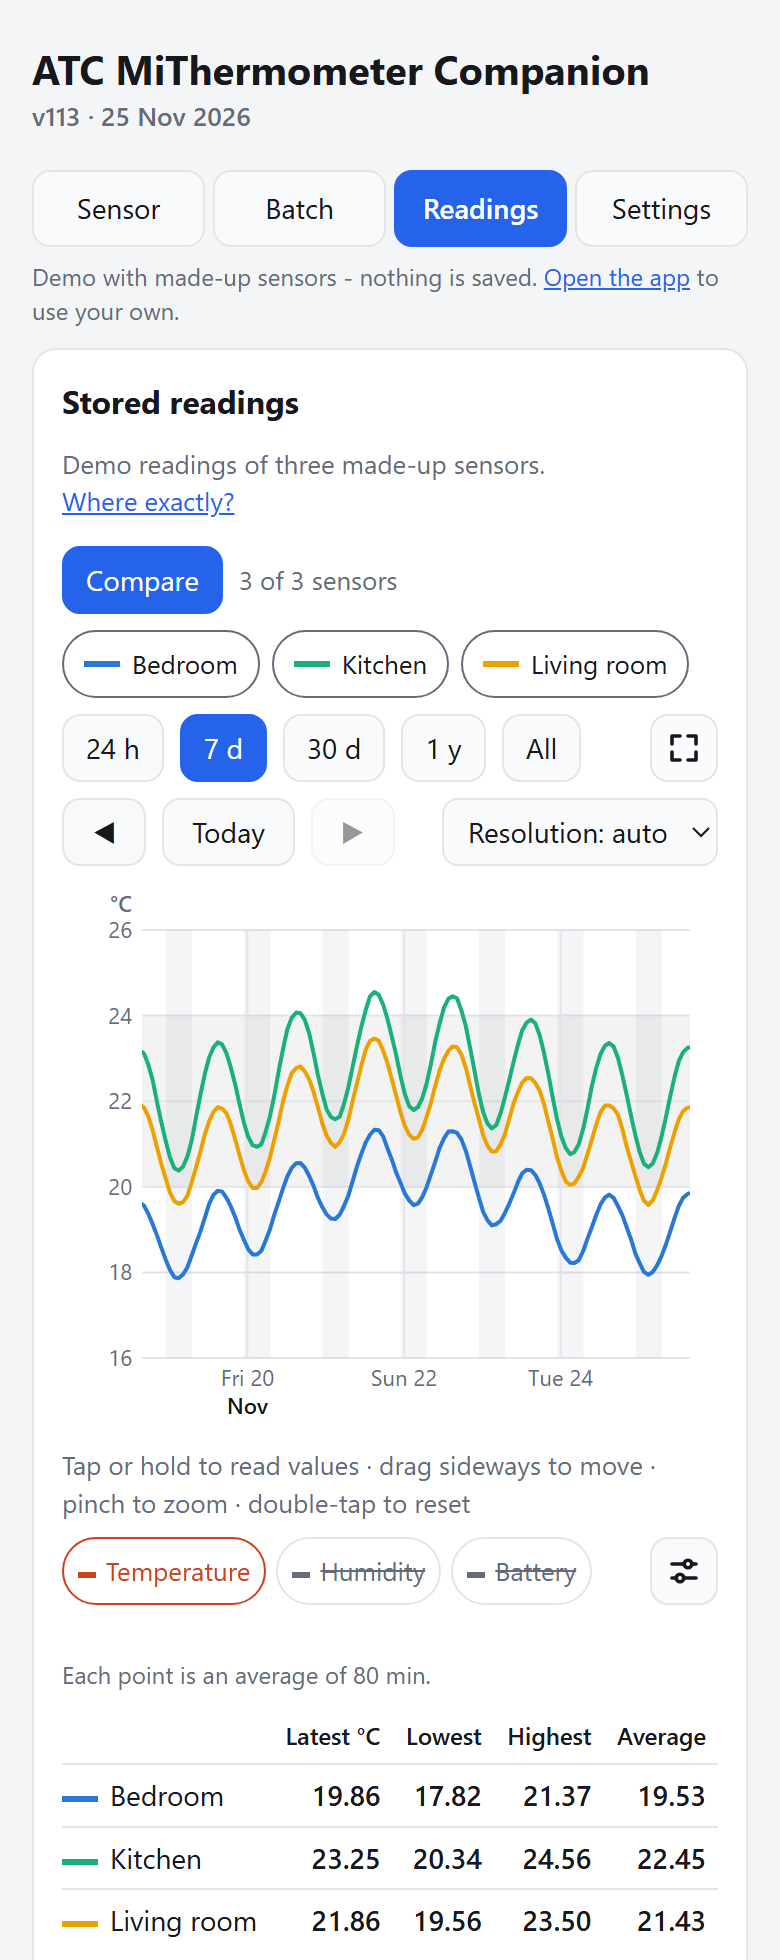
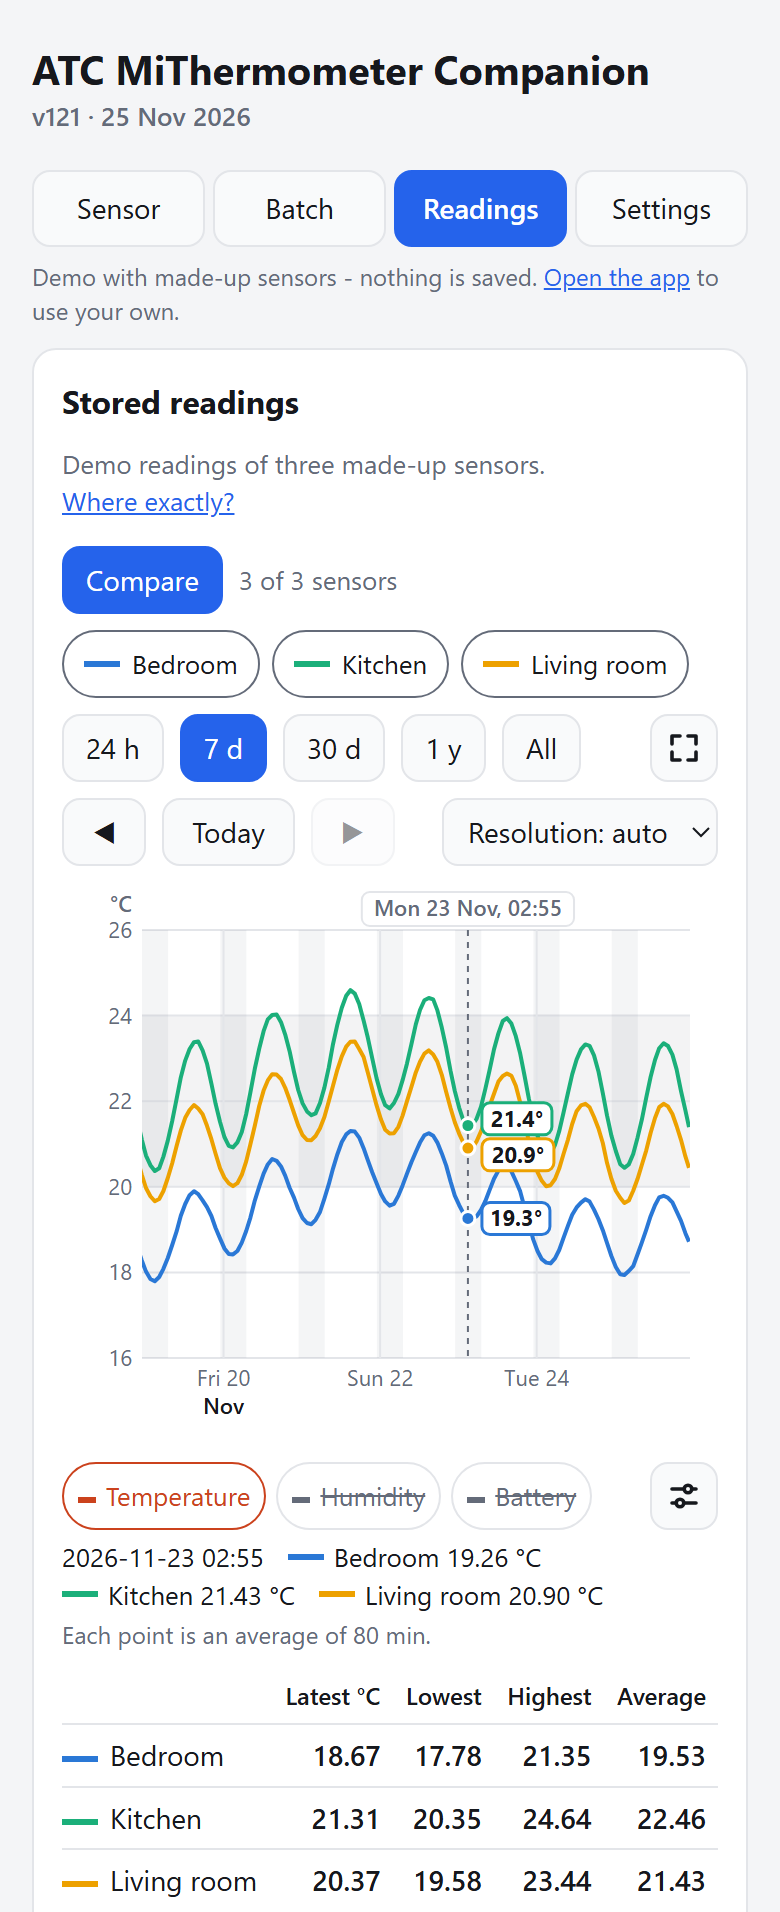
Full-screen chart fixes, new screenshots, tests on every push (v121)
Sideways full screen: the values no longer cover the time and the lines, the
buttons line up, low charts use the height better. Upright full screen: the
chart no longer shrinks when values appear. A GitHub workflow runs the tests.

diff --git a/index.html b/index.html
@@ -132,7 +132,7 @@ button.chip[aria-pressed="true"] { color: var(--text); border-color: var(--muted
 .ln.dash { border-top-style: dashed; }
 body:not(.comparing) #cmpChips, body.comparing .selwrap, body.comparing #styleSw, body.comparing #btnForget { display: none !important; }
 #btnCompare[aria-pressed="true"] { background: var(--accent); color: var(--accent-text); border-color: var(--accent); }
-#readout .rv { display: inline-flex; align-items: center; gap: 5px; margin-right: 12px; white-space: nowrap; color: var(--text); }
+#readout .rv { display: inline-flex; align-items: center; gap: 5px; margin-right: 12px; vertical-align: top; white-space: nowrap; color: var(--text); }
 .stats td .ln { margin-right: 6px; }
 .stats.cmp td:first-child { overflow-wrap: anywhere; color: var(--text); }
 /* Full-screen chart (the button, or turning the phone sideways) */
@@ -142,15 +142,20 @@ body.chartfull #histCard { position: fixed; inset: 0; z-index: 50; margin: 0; bo
 body.chartfull #histCard > :is(h2, .hist-extra, #avgNote, #battNote, #battHelp, #stats, #zoomRow, #noData), body.chartfull #histCount { display: none !important; }
 body.chartfull #chartWrap { flex: 1 1 0; min-height: 120px; touch-action: none; }
 body.chartfull #chart { position: absolute; inset: 0; height: 100%; }
+body.chartfull #readout { flex: none; height: 36px; font-size: 12px; line-height: 18px; overflow: hidden; }  /* fixed: the chart must not shrink when values appear */
+body.chartfull.comparing #readout { display: none; }
 @media (orientation: landscape) and (max-height: 500px) {
   body.chartfull #histCard { display: grid; grid-template-columns: auto auto 1fr; grid-template-rows: auto minmax(0, 1fr) auto; gap: 4px 10px; align-items: center; }
   body.chartfull #histCard > .row { margin: 0; flex-wrap: nowrap; }
-  body.chartfull #selRow { grid-area: 1 / 1; min-width: 0; } body.chartfull #selRow .selwrap { max-width: 150px; }
+  body.chartfull #selRow { grid-area: 1 / 1; min-width: 0; } body.chartfull #selRow .selwrap { max-width: 150px; } body.chartfull .selshow { padding: 5px 12px; }
   body.chartfull #stepBtns { grid-area: 1 / 2; } body.chartfull #rangeBtns { grid-area: 1 / 3; }
   body.chartfull #resSel, body.chartfull #btnCompare, body.chartfull #histCard > .legend { display: none !important; }
   body.chartfull #chartWrap { grid-area: 2 / 1 / 3 / -1; align-self: stretch; min-height: 0; margin: 0; }
   body.chartfull #cmpChips { grid-area: 3 / 1 / 4 / -1; flex-wrap: nowrap; overflow: auto hidden; margin: 0; } body.chartfull .chip { flex: none; } body.chartfull .chip::after { inset: 0; }
-  body.chartfull #readout { grid-area: 2 / 1 / 3 / -1; place-self: start center; z-index: 1; min-height: 0; margin: 0 44px; padding: 0 6px; font-size: 12px; background: var(--card); pointer-events: none; }
+  /* Values under the chart, in a line of their own (comparing: the tags on the chart show them all). */
+  body.chartfull #readout { grid-area: 3 / 1 / 4 / -1; justify-self: center; max-width: 100%; height: 18px; min-height: 18px; margin: 0; font-size: 12px; line-height: 18px; white-space: nowrap; overflow: hidden; text-overflow: ellipsis; }
+  body.chartfull.comparing #selRow { display: none; }
+  body.chartfull.comparing #stepBtns { grid-area: 1 / 1; } body.chartfull.comparing #rangeBtns { grid-area: 1 / 2 / 2 / -1; }
 }
 /* Stats under the chart: a table - rows Latest / Lowest / Highest / Average, a column per measurement. */
 .stats { margin-top: 8px; }
@@ -704,7 +709,7 @@ body[data-tab="all"] #knownList .kc .sub { padding-left: 28px; }
 <div id="toast" class="hidden" role="status" aria-live="polite"></div>
 
 <!-- Pure logic (also used by the tests); the ?v= makes phones fetch the new copy with each release. -->
-<script src="core.js?v=120"></script>
+<script src="core.js?v=121"></script>
 <script>
 "use strict";
 const LOCALE = "en-GB";  // dates and numbers match the English texts, whatever the phone's language
@@ -812,7 +817,7 @@ async function mergeInto(dev, newSamples) {
 // ===== Logging =====
 // Detailed debug log: every BLE packet in hex, connection-step timings, browser capabilities, errors
 // with stacks. Kept across page reloads (last LOG_MAX lines) so a crash or iOS reload doesn't lose it.
-const APP_VERSION = 120;  // also bump core.js?v= in the <script> tag above
+const APP_VERSION = 121;  // also bump core.js?v= in the <script> tag above
 const APP_DATE = "2026-11-25";  // release date of this version
 const LOG_MAX = 4000;
 const logLines = lsGet("debugLog", []);
@@ -3274,6 +3279,8 @@ function drawCompare(svg, W, H, col, dom) {
   if (hi - lo < minSpan) { const c = (lo + hi) / 2; lo = c - minSpan / 2; hi = c + minSpan / 2; }
   let step = niceStep((hi - lo) / Math.max(3, Math.min(8, Math.floor(ph / 42))));
   if (m === "t") step = [1, 2, 5, 10, 20, 50].find(s => s >= step - 1e-9) || step;
+  // A low chart (sideways): 2 degrees instead of 5 if the lines fit, so less of the height is wasted.
+  if (m === "t" && step === 5 && ph < 180 && (Math.ceil(hi / 2) - Math.floor(lo / 2)) * 20 <= ph) step = 2;
   const aLo = Math.floor(lo / step + 1e-9) * step, n = Math.max(1, Math.ceil((hi - aLo) / step - 1e-9)), aHi = aLo + n * step;
   const decimals = Math.abs(step - Math.round(step)) < 1e-9 ? 0 : Math.abs(step * 10 - Math.round(step * 10)) < 1e-9 ? 1 : 2;
   const x = t => L + (t - t0) / span * pw, y = v => T + (1 - (v - aLo) / (aHi - aLo)) * ph;
@@ -3385,7 +3392,7 @@ function showReadoutAt(clientX) {
     cursor.setAttribute("x1", cx); cursor.setAttribute("x2", cx); cursor.setAttribute("visibility", "visible");
     const f = (v, d) => v.toFixed(d);
     const dh = plotted.decH, u = plotted.unitH;
-    $("readout").textContent = `${localStrZ(c.start)} – ${localStrZ(c.end)}` +
+    $("readout").textContent = spanStr(c.start, c.end) +
       (plotted.showT ? `  ·  °C open ${f(c.t[0], 1)} high ${f(c.t[1], 1)} low ${f(c.t[2], 1)} close ${f(c.t[3], 1)}` : "") +
       (plotted.showH ? `  ·  ${u} open ${f(c.h[0], dh)} high ${f(c.h[1], dh)} low ${f(c.h[2], dh)} close ${f(c.h[3], dh)}` : "") + `  ·  ${c.n} readings`;
     drawMarkerLabels(cx, c.t[3], c.h[3]); drawTimeTag(cx, tagPeriod(c.start, c.end));
@@ -3397,10 +3404,15 @@ function showReadoutAt(clientX) {
   const u = plotted.unitH, dh = plotted.decH, dh1 = plotted.decH1;
   $("readout").textContent = n > 1
     // Averaged point: say so, with its time span, the range of readings behind it, and how many.
-    ? `${localStrZ(tA)} – ${localStrZ(tB)}` + (plotted.showT ? `  ·  avg ${tm.toFixed(1)} °C (${tLo.toFixed(1)}–${tHi.toFixed(1)})` : "") +
+    ? spanStr(tA, tB) + (plotted.showT ? `  ·  avg ${tm.toFixed(1)} °C (${tLo.toFixed(1)}–${tHi.toFixed(1)})` : "") +
       (plotted.showH ? `  ·  avg ${hm.toFixed(dh)} ${u} (${hLo.toFixed(dh)}–${hHi.toFixed(dh)})` : "") + `  ·  ${n} readings`
     : `${localStrZ(t)}` + (plotted.showT ? `  ·  ${tm.toFixed(2)} °C` : "") + (plotted.showH ? `  ·  ${hm.toFixed(dh1)} ${u}` : "");
   drawMarkerLabels(x(best[0]), tm, hm); drawTimeTag(x(best[0]), tagTime(best[0]));
+}
+// "2026-11-22 09:00 – 12:00": the end's date only if it's another one.
+function spanStr(a, b) {
+  const x = localStrZ(a), y = localStrZ(b);
+  return `${x} – ${x.slice(0, 10) === y.slice(0, 10) ? y.slice(11) : y}`;
 }
 // Small value tags with a dot right on each line where the marker crosses it ("21.3°", "56%").
 // They go right of the marker, or left near the right edge, and never overlap each other.
@@ -3419,12 +3431,14 @@ function drawTags(cx, tags) {
   // Tags stay at least 18 px apart (a little less if they don't fit) and inside the plot.
   tags.sort((a, b) => a.y - b.y);
   const ty = spreadLabels(tags.map(t => t.y), Math.min(18, (P.ph - 16) / Math.max(1, tags.length - 1)), P.T + 8, P.T + P.ph - 8);
-  const widest = Math.max(...tags.map(t => t.text.length * 6.6 + 8)), left = cx + 7 + widest > P.L + P.pw + 6;
+  const measure = measureText11();
+  tags.forEach(t => t.w = Math.round(measure(t.text, true)) + 11);
+  const widest = Math.max(0, ...tags.map(t => t.w)), left = cx + 7 + widest > P.L + P.pw + 6;
   // A tag that had to move away from its dot is joined to it by a thin line.
   tags.forEach((t, i) => { if (Math.abs(ty[i] - t.y) > 9) mk("line", { x1: cx, y1: t.y, x2: left ? cx - 7 : cx + 7, y2: ty[i], stroke: t.color, "stroke-width": 1 }); });
   for (const t of tags) mk("circle", { cx: t.cx == null ? cx : t.cx, cy: t.y, r: 3.5, fill: t.color, stroke: P.colBg, "stroke-width": 1.5 });
   tags.forEach((t, i) => {
-    const w = t.text.length * 6.6 + 8, bx = left ? cx - 7 - w : cx + 7;
+    const w = t.w, bx = left ? cx - 7 - w : cx + 7;
     mk("rect", { x: bx, y: ty[i] - 8, width: w, height: 16, rx: 4, fill: P.colBg, stroke: t.color, "stroke-width": t.ink ? 1.5 : 1, "stroke-dasharray": t.dash });
     mk("text", { x: bx + w / 2, y: ty[i] + 4, "text-anchor": "middle", "font-size": 11, "font-weight": 700, fill: t.ink || t.color }, t.text);
   });

diff --git a/README.md b/README.md
@@ -30,7 +30,7 @@ Your data stays on your phone. Nothing is sent anywhere. The app reminds you to 
 
 ## For developers
 
-The app is a single page, [`index.html`](index.html), with its logic in [`core.js`](core.js). Tests need no installs:
+The app is a single page, [`index.html`](index.html), with its logic in [`core.js`](core.js). Tests need no installs, and run on GitHub with every push:
 
 ```
 node --test tests/
